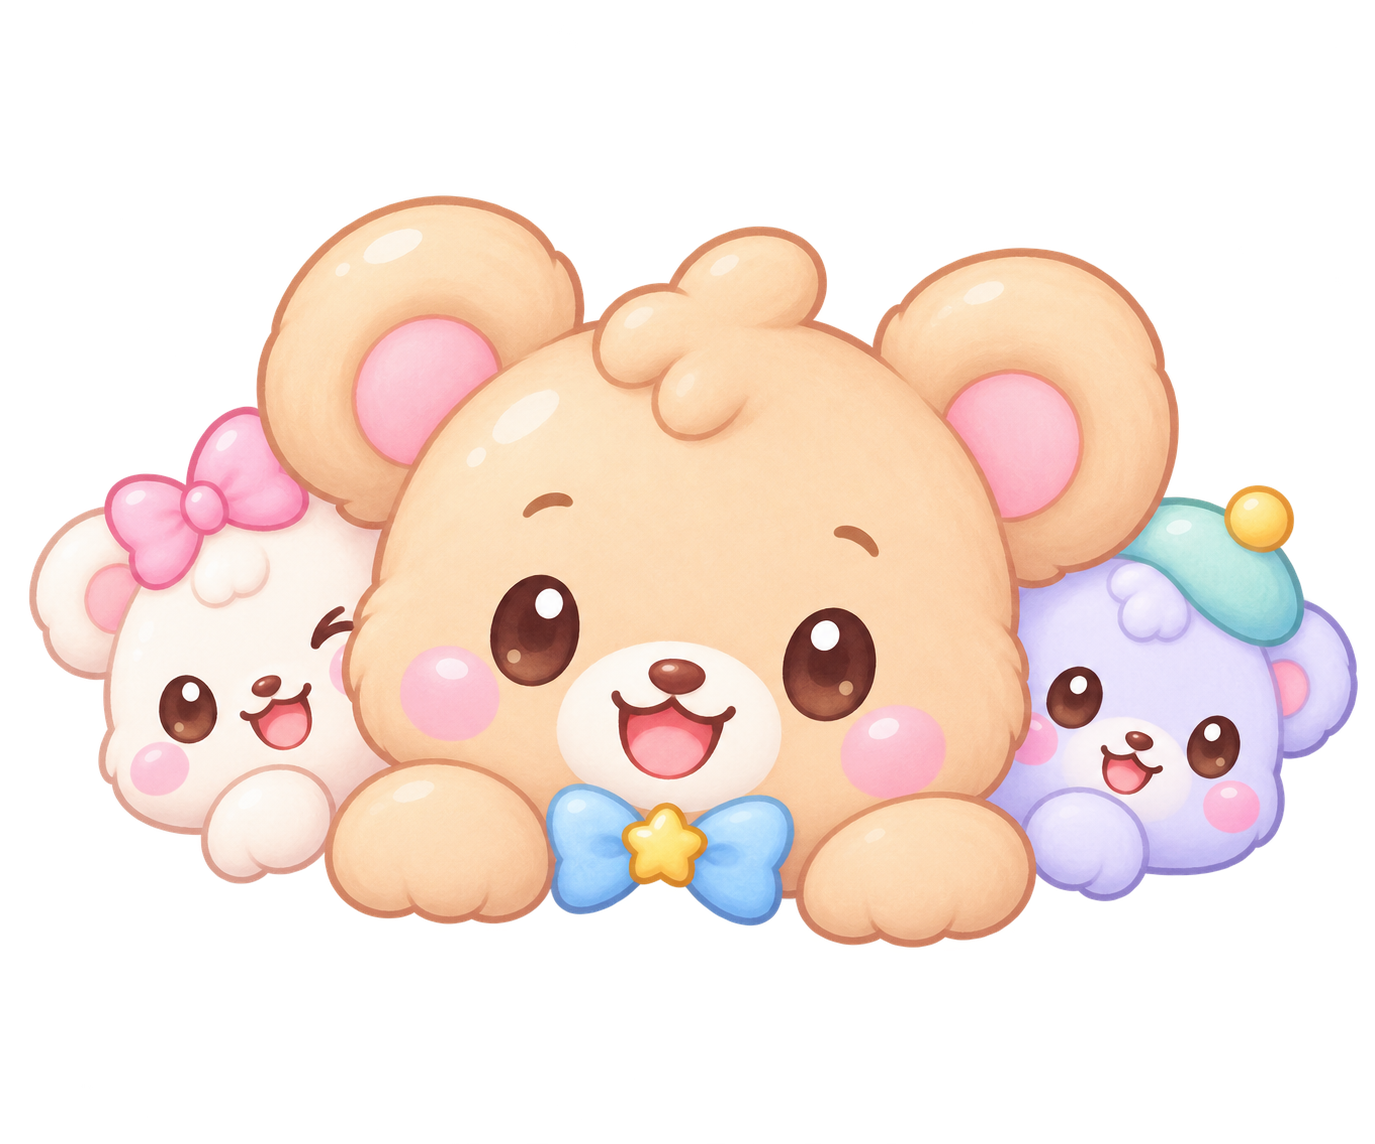
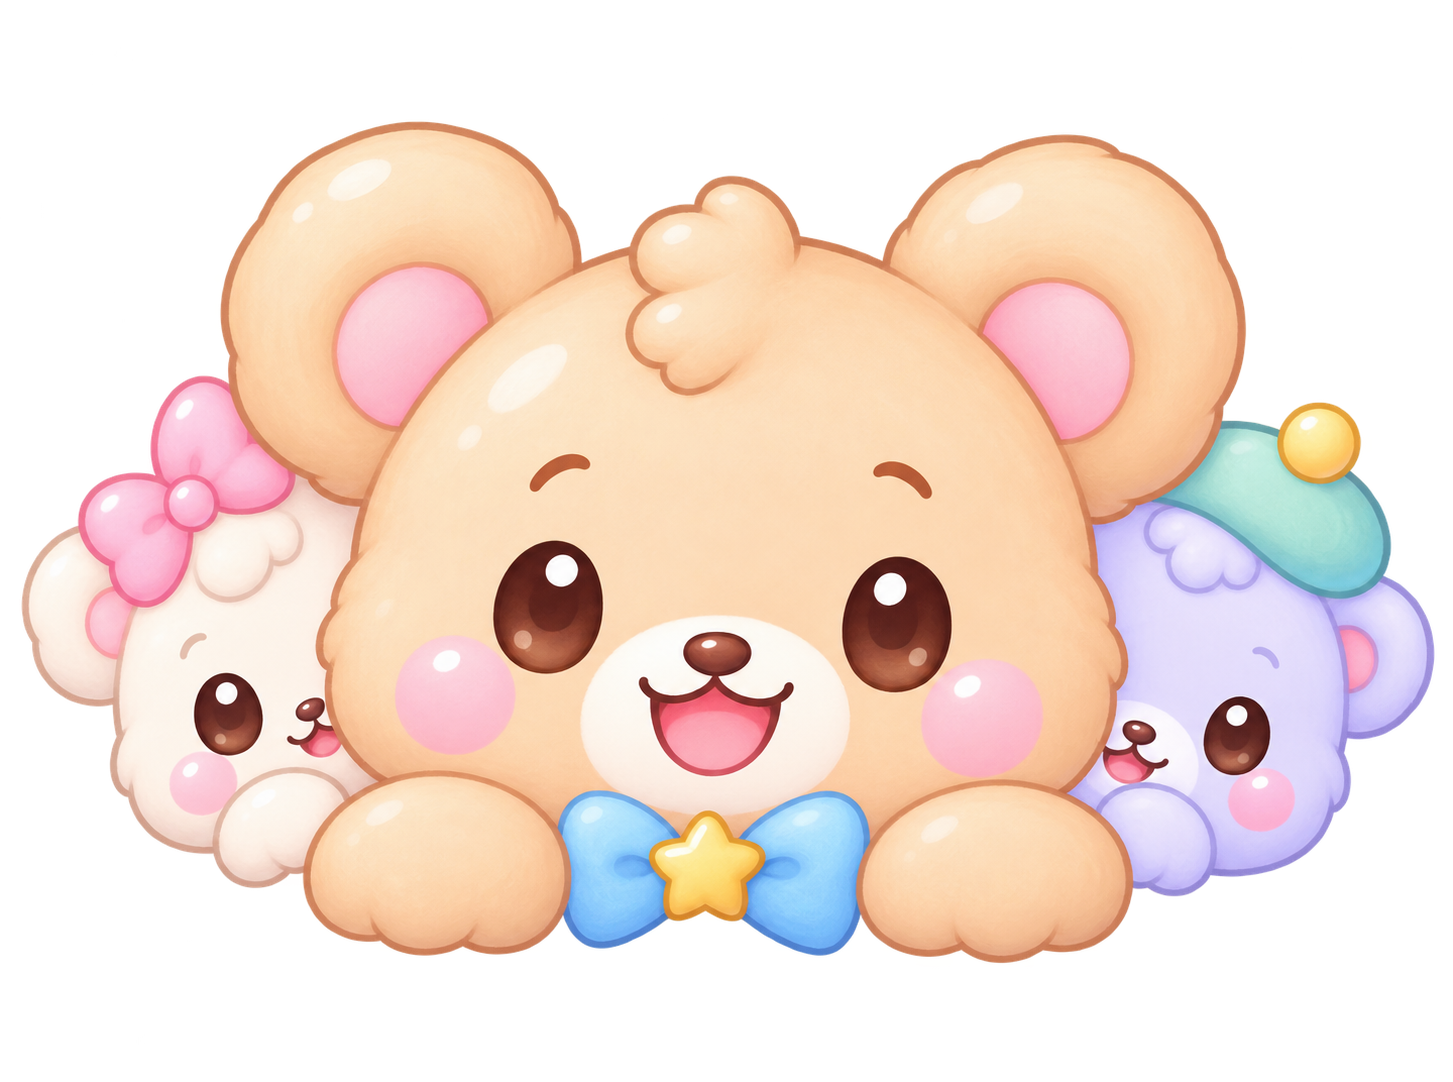
Phase 5D-2-D: nav_pick を 3回目の 素材に 差しかえ
原画を 1453x1082 の 透過つき PNG に 入れかえ、nav_pick.webp を
切りなおしました。**index.html は 1文字も 変えて いません**
（`pickIc:40`・`buildShop()` 34px・`syncShop()` 32px は そのまま）。

中みの 大きさ 40x22 → **40x23**（比 1.82 → 1.74・面積 880 → 920）。
地との さ 36.6 → 37.1、こい画素 1.9% → 2.2%。

ねらいの 38x31〜33（比 1.15〜1.25）には まだ 届いて いません。
3つの 候補を 測って いちばん たてが 高い ものを えらんだ 結果です。

- 6画面で 寸法は 1pxも 変わらず（`.tw .ic` 40.00 / `#shop` 78.13・90.19 /
  `.tw` 72.13・84.19 / `#panel` 83・94.19 / `#hud` 59.17 /
  盤面 288・360・492・540・444・516）
- えらぶ→解除 ×3 で 絵が もどる／絵が 読めない ときは 🧸 の 絵文字
- check-title2（320px の よこはみ出し）・check-chars・check-path・
  check-btn・check-flyer・check-welcome ぜんぶ 合格
- 60fps・JSエラー 0

Claude-Session: https://claude.ai/code/session_017T33GUsfgm7C8rszTwdTxa

diff --git a/sw.js b/sw.js
@@ -1,6 +1,6 @@
 /* このファイルは 手で 直さないこと。
    node tools/build-sw.mjs が 作りなおします（中みは tools/_files.mjs）*/
-const V = '2c60ecdf2c';
+const V = 'd8028e16e4';
 const CACHE = 'okashi-' + V;
 const CORE = ["index.html","manifest.webmanifest","apple-touch-icon.png","icon-192.png","icon-512.png","icon-maskable-512.png","vendor/phaser.min.js","vendor/phaser-LICENSE.txt","art/title/title_main.webp","art/title/title_v2.webp","art/ui/bonus_ame.webp","art/ui/bonus_ichigo.webp","art/ui/cur_gem.webp","art/ui/cur_heart.webp","art/ui/cur_shard.webp","art/ui/cur_star.webp","art/ui/it_elixir3.webp","art/ui/item_ball.webp","art/ui/item_bolt.webp","art/ui/item_elixir.webp","art/ui/item_freeze.webp","art/ui/item_hammer.webp","art/ui/item_rain.webp","art/ui/nav_avatar.webp","art/ui/nav_close.webp","art/ui/nav_code.webp","art/ui/nav_dex.webp","art/ui/nav_egg.webp","art/ui/nav_guard.webp","art/ui/nav_guide.webp","art/ui/nav_pick.webp","art/ui/nav_pin.webp","art/ui/nav_share.webp","art/ui/nav_shop.webp","art/ui/nav_week.webp","art/ui/shop_help.webp","art/ui/shop_pass.webp","art/ui/shop_rainbow_set.webp","art/ui/shop_start.webp","art/ui/snd_off.webp","art/ui/snd_on.webp","art/ui/theme_dream.webp","art/ui/theme_lemon.webp","art/ui/theme_mermaid.webp"];
 const REST = ["invite.html","privacy.html","support.html","art/sprites/angel.png","art/sprites/anmitsu.png","art/sprites/armadillo.png","art/sprites/bat.png","art/sprites/baum.png","art/sprites/bear.png","art/sprites/bee.png","art/sprites/beetle.png","art/sprites/berryqueen.png","art/sprites/bigparfait.png","art/sprites/butterfly.png","art/sprites/cactus.png","art/sprites/cake.png","art/sprites/camel.png","art/sprites/candy.png","art/sprites/candytree.png","art/sprites/castella.png","art/sprites/choco.png","art/sprites/chocoknight.png","art/sprites/churro.png","art/sprites/cleopatra.png","art/sprites/clownfish.png","art/sprites/cobra.png","art/sprites/cookie.png","art/sprites/crab.png","art/sprites/cream.png","art/sprites/cupcake.png","art/sprites/daifuku.png","art/sprites/dango.png","art/sprites/deer.png","art/sprites/devil.png","art/sprites/dolphin.png","art/sprites/donut.png","art/sprites/eagle.png","art/sprites/eclair.png","art/sprites/elephant.png","art/sprites/fairy.png","art/sprites/fennec.png","art/sprites/firebird.png","art/sprites/futaba.png","art/sprites/ghost.png","art/sprites/giraffe.png","art/sprites/golem.png","art/sprites/gull.png","art/sprites/gummy.png","art/sprites/hanabi.png","art/sprites/hedgehog.png","art/sprites/hermit.png","art/sprites/hikari.png","art/sprites/hinotama.png","art/sprites/horse.png","art/sprites/icecream.png","art/sprites/it_ball.png","art/sprites/it_bolt.png","art/sprites/it_elixir.png","art/sprites/it_freeze.png","art/sprites/it_hammer.png","art/sprites/it_rain.png","art/sprites/jelly.png","art/sprites/jelly2.png","art/sprites/kagero.png","art/sprites/kakigori.png","art/sprites/kaminari.png","art/sprites/kangaroo.png","art/sprites/king.png","art/sprites/koala.png","art/sprites/konpeito.png","art/sprites/koori.png","art/sprites/kraken.png","art/sprites/kujaku.png","art/sprites/kyubi.png","art/sprites/ladybug.png","art/sprites/lavagolem.png","art/sprites/lavasnail.png","art/sprites/lion.png","art/sprites/lizard.png","art/sprites/macaron.png","art/sprites/mammoth.png","art/sprites/manju.png","art/sprites/manta.png","art/sprites/marshmallow.png","art/sprites/meerkat.png","art/sprites/mermaid.png","art/sprites/mille.png","art/sprites/monaka.png","art/sprites/monkey.png","art/sprites/mont.png","art/sprites/moonrabbit.png","art/sprites/mouse.png","art/sprites/mummy.png","art/sprites/nagareboshi.png","art/sprites/octopus.png","art/sprites/ohagi.png","art/sprites/oni.png","art/sprites/onibi.png","art/sprites/orca.png","art/sprites/ostrich.png","art/sprites/owl.png","art/sprites/pancake.png","art/sprites/panda.png","art/sprites/parfait.png","art/sprites/pegasus.png","art/sprites/penguin.png","art/sprites/pharaoh.png","art/sprites/pig.png","art/sprites/popcorn.png","art/sprites/pretzel.png","art/sprites/prince.png","art/sprites/princess.png","art/sprites/purin.png","art/sprites/purinala.png","art/sprites/purinpafe.png","art/sprites/queen.png","art/sprites/rabbit.png","art/sprites/redpanda.png","art/sprites/roll.png","art/sprites/ryu.png","art/sprites/sakuramochi.png","art/sprites/salamander.png","art/sprites/sandcat.png","art/sprites/scorpion.png","art/sprites/seahorse.png","art/sprites/seal.png","art/sprites/senbei.png","art/sprites/shark.png","art/sprites/sheep.png","art/sprites/shizuku.png","art/sprites/slime.png","art/sprites/sloth.png","art/sprites/snowqueen.png","art/sprites/soft.png","art/sprites/sphinx.png","art/sprites/squirrel.png","art/sprites/star.png","art/sprites/starfish.png","art/sprites/sunadokei.png","art/sprites/swan.png","art/sprites/taffy.png","art/sprites/taiyou.png","art/sprites/tart.png","art/sprites/tiger.png","art/sprites/tower.png","art/sprites/tsumuji.png","art/sprites/turtle.png","art/sprites/tutankhamun.png","art/sprites/unicorn.png","art/sprites/waffle.png","art/sprites/warabi.png","art/sprites/watagumo.png","art/sprites/watame.png","art/sprites/wedding.png","art/sprites/whale.png","art/sprites/witch.png","art/sprites/witch_fly.png","art/sprites/wizard.png","art/sprites/wolf.png","art/sprites/yotsuba.png","art/sprites/youkan.png","art/sprites/yukionna.png","art/sprites/zebra.png","art/screens/duel_berry.webp","art/screens/duel_caramel.webp","art/screens/duel_choco.webp","art/screens/duel_egypt.webp","art/screens/duel_fire.webp","art/screens/duel_forest.webp","art/screens/duel_ice.webp","art/screens/duel_night.webp","art/screens/duel_rainbow.webp","art/screens/duel_sea.webp","art/screens/duel_snow.webp","art/screens/duel_sugar.webp","art/screens/ogp.jpg","art/screens/welcome.webp","art/screens/welcome_castle.webp"];

diff --git a/CLAUDE.md b/CLAUDE.md
@@ -1866,25 +1866,46 @@ cupcake / cake / purin）と ならんで 降ってきます。
 #### 絵は よこに 長いと 小さく なる
 
 3体が よこに ならぶ 絵なので、**たてよこ比が そのまま 大きさに ひびきます**。
-1回 作りなおして 2.11 → 1.82 に なりました。
+3回 作りなおして 2.11 → 1.82 → **1.74** に なりました。
 
-| | 中みの 大きさ | 比 | 面積 | 地との さ |
-|---|---|---|---|---|
-| いままでの 🧸 絵文字 | 31x36 | 0.86 | 1116 | **119.9** |
-| `nav_pick`（1回目・比2.11）| 40x20 | 2.00 | 800 | 37.3 |
-| **`nav_pick`（いま）** | **40x22** | **1.82** | **880** | **36.6** |
-| tw_candy / ice / star | 36x30〜32 | 1.13〜1.20 | 1080〜1152 | 51.7〜54.9 |
+| | 中みの 大きさ | 比 | 面積 | 地との さ | こい画素% |
+|---|---|---|---|---|---|
+| いままでの 🧸 絵文字 | 31x36 | 0.86 | 1116 | **119.9** | 65.1% |
+| `nav_pick`（1回目）| 40x20 | 2.00 | 800 | 37.3 | — |
+| `nav_pick`（2回目）| 40x22 | 1.82 | 880 | 36.6 | 1.9% |
+| **`nav_pick`（いま・3回目）** | **40x23** | **1.74** | **920** | **37.1** | 2.2% |
+| tw_candy / ice / star | 36x30〜32 | 1.13〜1.20 | 1080〜1152 | 51.7〜54.9 | 0〜2.1% |
 
-**色の 浮きは 直りました**（119.9 → 36.6。こい画素も 65.1% → 1.9%）が、
-**面積は まだ 4つより 24%ほど 小さい**です。
+**色の 浮きは 直りました**（119.9 → 37.1。こい画素も 65.1% → 2.2%）が、
+**面積は まだ 4つより 15%ほど 小さい**です。
 
 > **よこに 長い 絵は この 箱では 大きく できません。**
 > 40px の わくの はばが 上限なので、たては **はば ÷ 比**で 決まります
-> ——比 2.11 で 20px、比 1.82 で 22px。
+> ——比 2.11 で 20px、1.82 で 22px、1.74 で 23px。
 > 4つと おなじ 大きさに するには **比 1.2 前後**が いります
 > （そうすれば 40px の わくで 38x32 に なり ぴたりと そろう）。
 > **コードでは 直せません。**左右の 2体を「耳と 頭の てっぺんだけ」まで
 > 中央の うしろへ 深く 重ねる ——絵の 作りかたで しか 縮みません。
+>
+> **3回とも そこまでは 縮みませんでした。**どの版も 左右の 2体が
+> 顔ぜんぶ（目・ほっぺ・口）を 見せて わくの 左右の はしまで のびて
+> います。**中央の クマを 大きくするだけでは 比は ほとんど 動きません**
+> ——利いているのは 左右の 張り出しの ほうだからです。
+
+#### 透過は 見た目では 分からない。PNG の カラータイプで 見る
+
+3回目の 途中で 届いた 1枚は、**すきとおりの 市松もようが 絵として
+焼きこまれた** ものでした（カラータイプ2＝アルファなし。市松は
+`#fefefe` と `#f6f6f6` の 塗り）。プレビューでは 透過に 見えます。
+
+**そこから アルファを 作りなおしては いけません。**なめらか処理の
+ふちに 灰いろが 混ざり、半とうめいは もう 戻せず、しかも 市松の 白と
+絵の 白い ハイライトが 見わけられません。出しなおして もらうこと。
+
+```
+python3 -c "import struct;d=open(F,'rb').read();print(struct.unpack('>IIBB',d[16:26]))"
+# 4つめが 6 なら RGBA（透過あり）／2 なら RGB（透過なし）
+```
 
 ### 絵文字の さしかえは `UI_SPOT` の 表で
 
